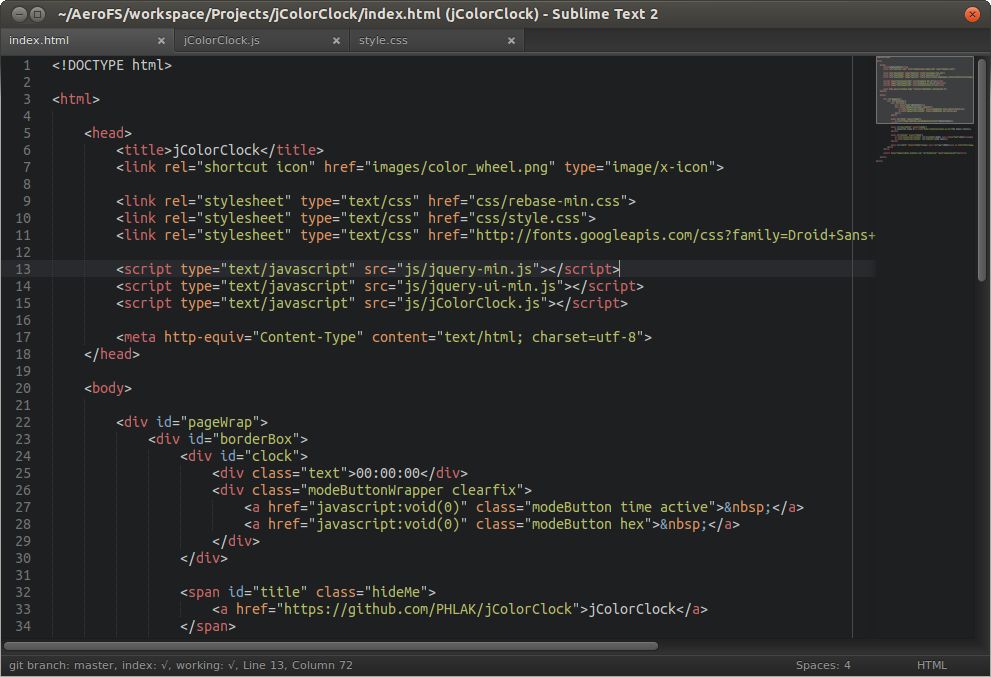
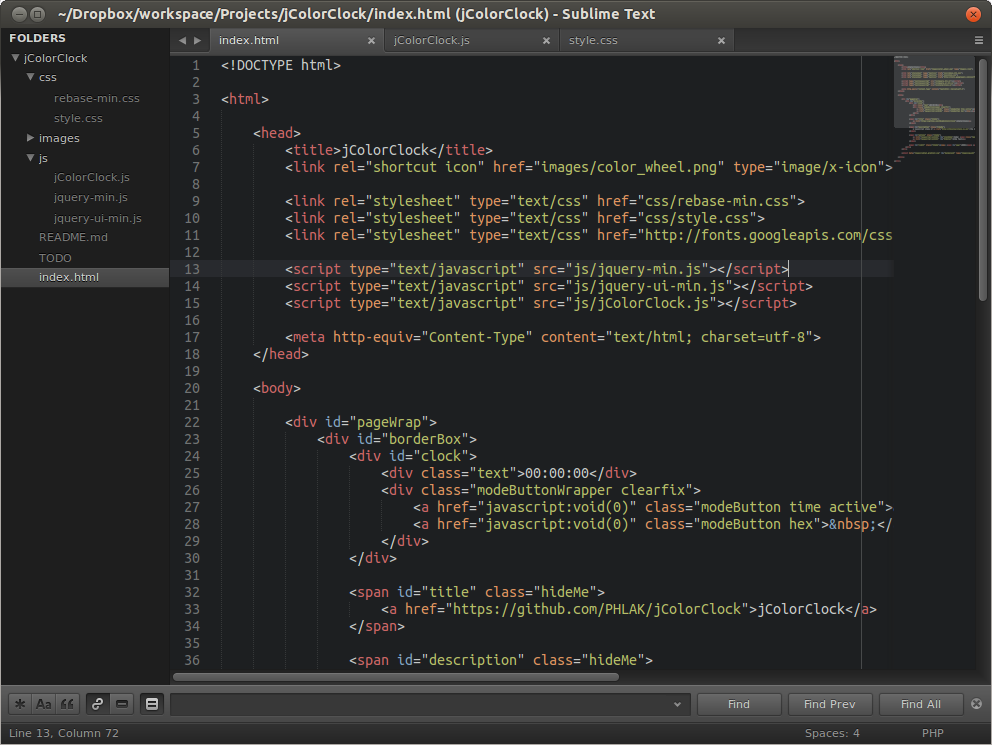
Updated settings and screenshot for Sublime Text 3

diff --git a/README.md b/README.md
@@ -3,7 +3,7 @@ Sublime Text Setup
 
 A list of my Sublime Text packages, settings, and key bindings.
 
-![Sublime Text 2 Screenshot](https://raw.github.com/PHLAK/sublime-text/master/screenshot.png)
+![Sublime Text 3 Screenshot](https://raw.github.com/PHLAK/sublime-text/master/screenshot.png)
 
 
 Theme, Color Scheme & Font
@@ -35,7 +35,7 @@ Packages
 Syntaxes
 --------
 
-  * [HTML5](https://github.com/mrmartineau/HTML5) - HTML5 bundle for Sublime Text 2
+  * [HTML5](https://github.com/mrmartineau/HTML5) - HTML5 bundle for Sublime Text 3
   * [jQuery](https://github.com/SublimeText/jQuery) - jQuery package bundle
 
 
@@ -44,10 +44,9 @@ Settings
 ```js
 {
     "close_windows_when_empty": true,
-    "color_scheme": "Packages/Base16 Color Schemes/base16-tomorrow.dark.tmTheme",
+    "color_scheme": "Packages/User/base16-tomorrow.dark (SL).tmTheme",
     "default_line_ending": "system",
     "drag_text": false,
-    "draw_minimap_border": true,
     "font_face": "Ubuntu Mono",
     "font_size": 12,
     "highlight_line": true,
@@ -63,7 +62,7 @@ Settings
     ],
     "shift_tab_unindent": true,
     "tab_size": 4,
-    "theme": "Soda Dark.sublime-theme",
+    "theme": "Soda Dark 3.sublime-theme",
     "translate_tabs_to_spaces": true,
     "trim_trailing_white_space_on_save": true,
     "word_wrap": false
